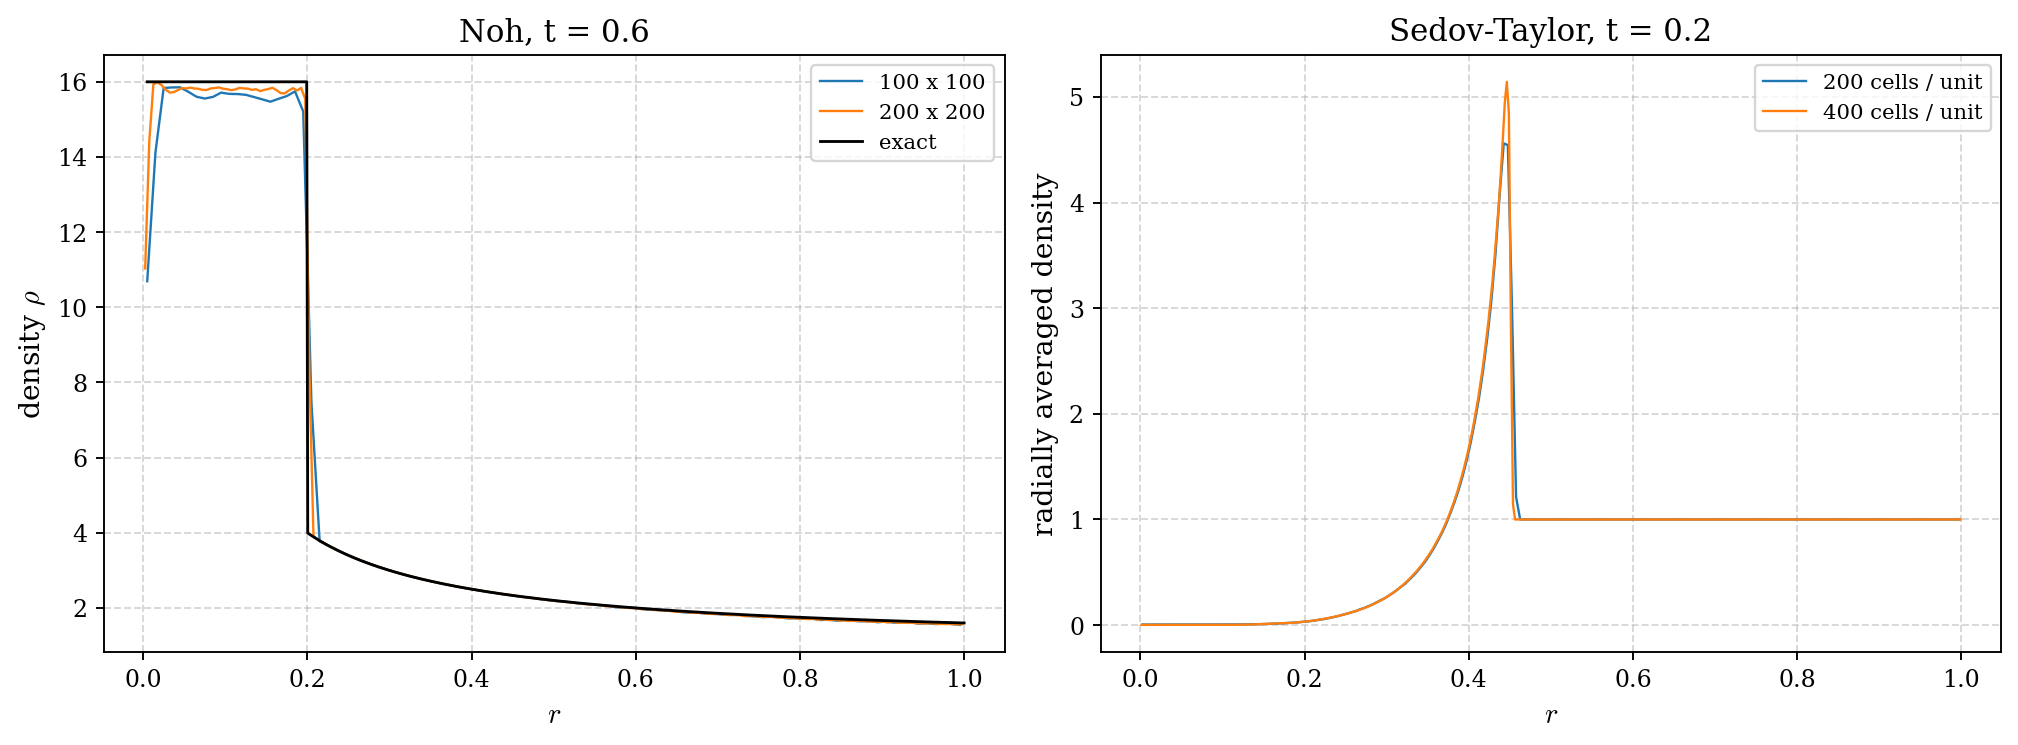
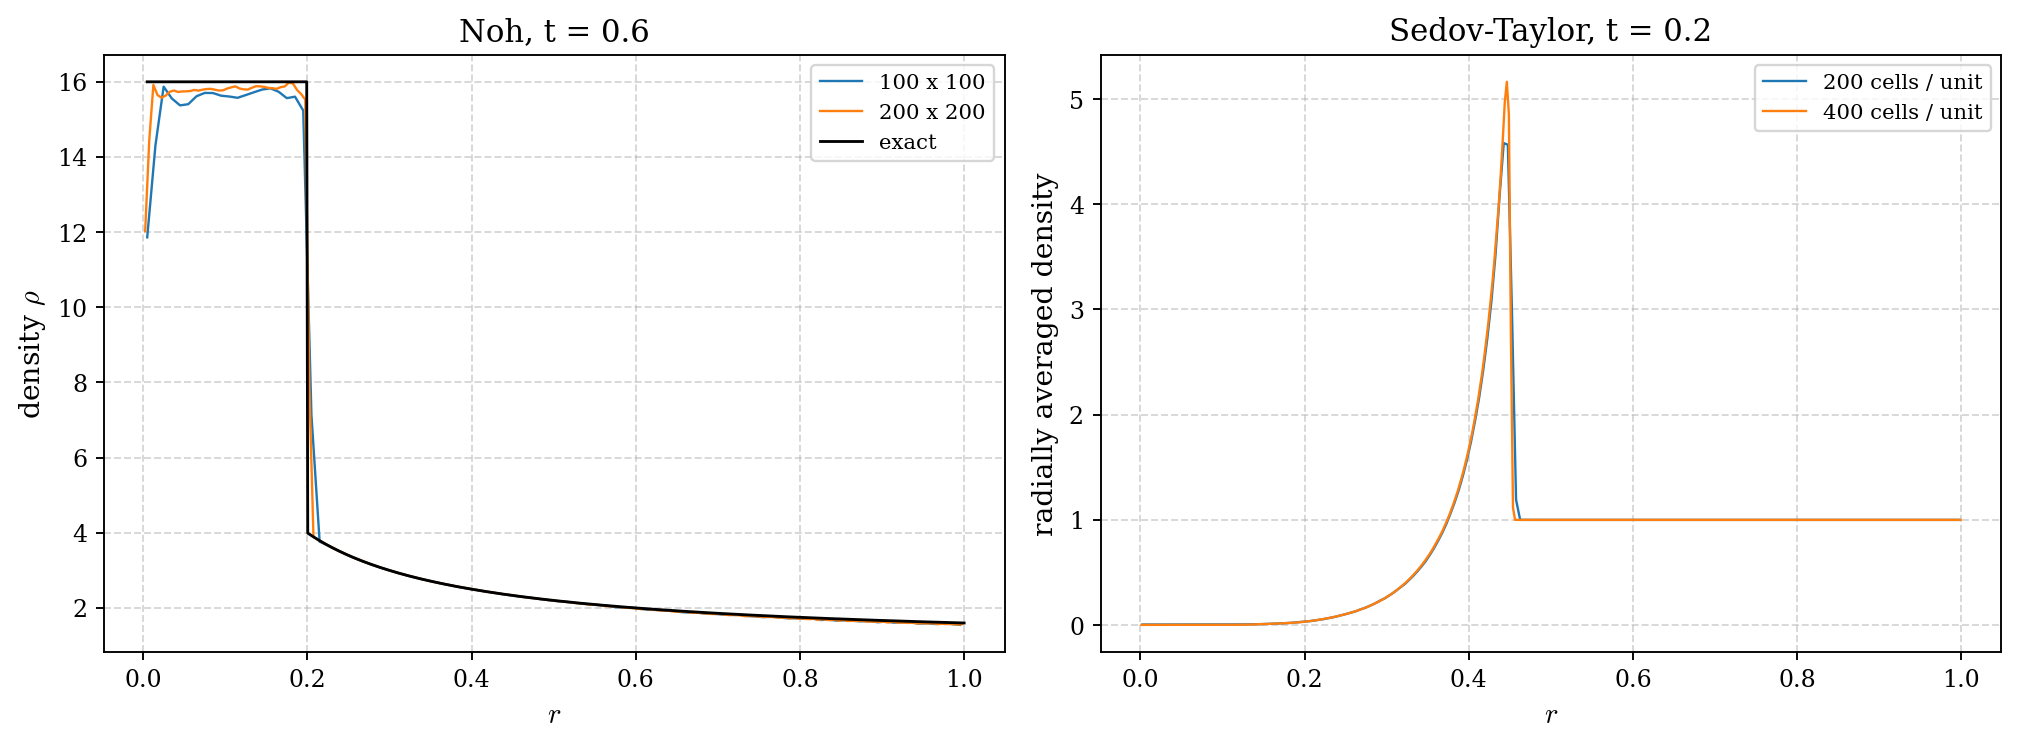
Riemann 2-D and implosions pages: numbers and figures from the runs with shock_blend 0.2 [skip ci]
Rates 0.92 / 1.08 / 1.24 / 1.34, AMR difference 9.4e-4 against 1.3e-2 uniform; Noh plateau 15.7 / 15.8, L1 2.8 % / 1.5 %; Sedov peak density 4.6 / 5.2.

diff --git a/docs/source/cases/implosions.md b/docs/source/cases/implosions.md
@@ -35,9 +35,9 @@ density in $[3.5, 6.2]$, $R(0.2)$ of 200 and 400 cells within two coarse cells.
 
 <figure>
 <img src="{{root}}img/implosions.png" style="width:100%">
-<figcaption>Left: Noh density against the radius at t = 0.6 (the shock radius is within a cell of 0.2; plateau 15.6 and 15.8 on
-100 and 200 cells, relative L1 error 2.9 % and 1.6 %). Right: Sedov radially averaged density at t = 0.2 (exponent 0.495
-and 0.506, peak density 4.6 and 5.1 on 200 and 400 cells per unit length; symmetry exact).</figcaption>
+<figcaption>Left: Noh density against the radius at t = 0.6 (the shock radius is within a cell of 0.2; plateau 15.7 and 15.8 on
+100 and 200 cells, relative L1 error 2.8 % and 1.5 %). Right: Sedov radially averaged density at t = 0.2 (exponent 0.495
+and 0.506, peak density 4.6 and 5.2 on 200 and 400 cells per unit length; symmetry exact).</figcaption>
 </figure>
 
 ## References

diff --git a/docs/source/cases/riemann-2d.md b/docs/source/cases/riemann-2d.md
@@ -25,7 +25,7 @@ level) is closer to the uniform 200 x 200 run than the uniform 100 x 100 run is,
 
 <figure>
 <img src="{{root}}img/riemann_2d.png" style="width:100%">
-<figcaption>Density contours on 400 x 400 cells. Observed rates 0.90, 1.08, 1.24 and 1.34 (configurations 3, 4, 6, 12);
-symmetry exact (0) on both grids; the AMR run differs from the uniform 200 x 200 run by 1.0e-3, the uniform 100 x 100 run
-by 1.2e-2.</figcaption>
+<figcaption>Density contours on 400 x 400 cells. Observed rates 0.92, 1.08, 1.24 and 1.34 (configurations 3, 4, 6, 12);
+symmetry exact (0) on both grids; the AMR run differs from the uniform 200 x 200 run by 9.4e-4, the uniform 100 x 100 run
+by 1.3e-2.</figcaption>
 </figure>
